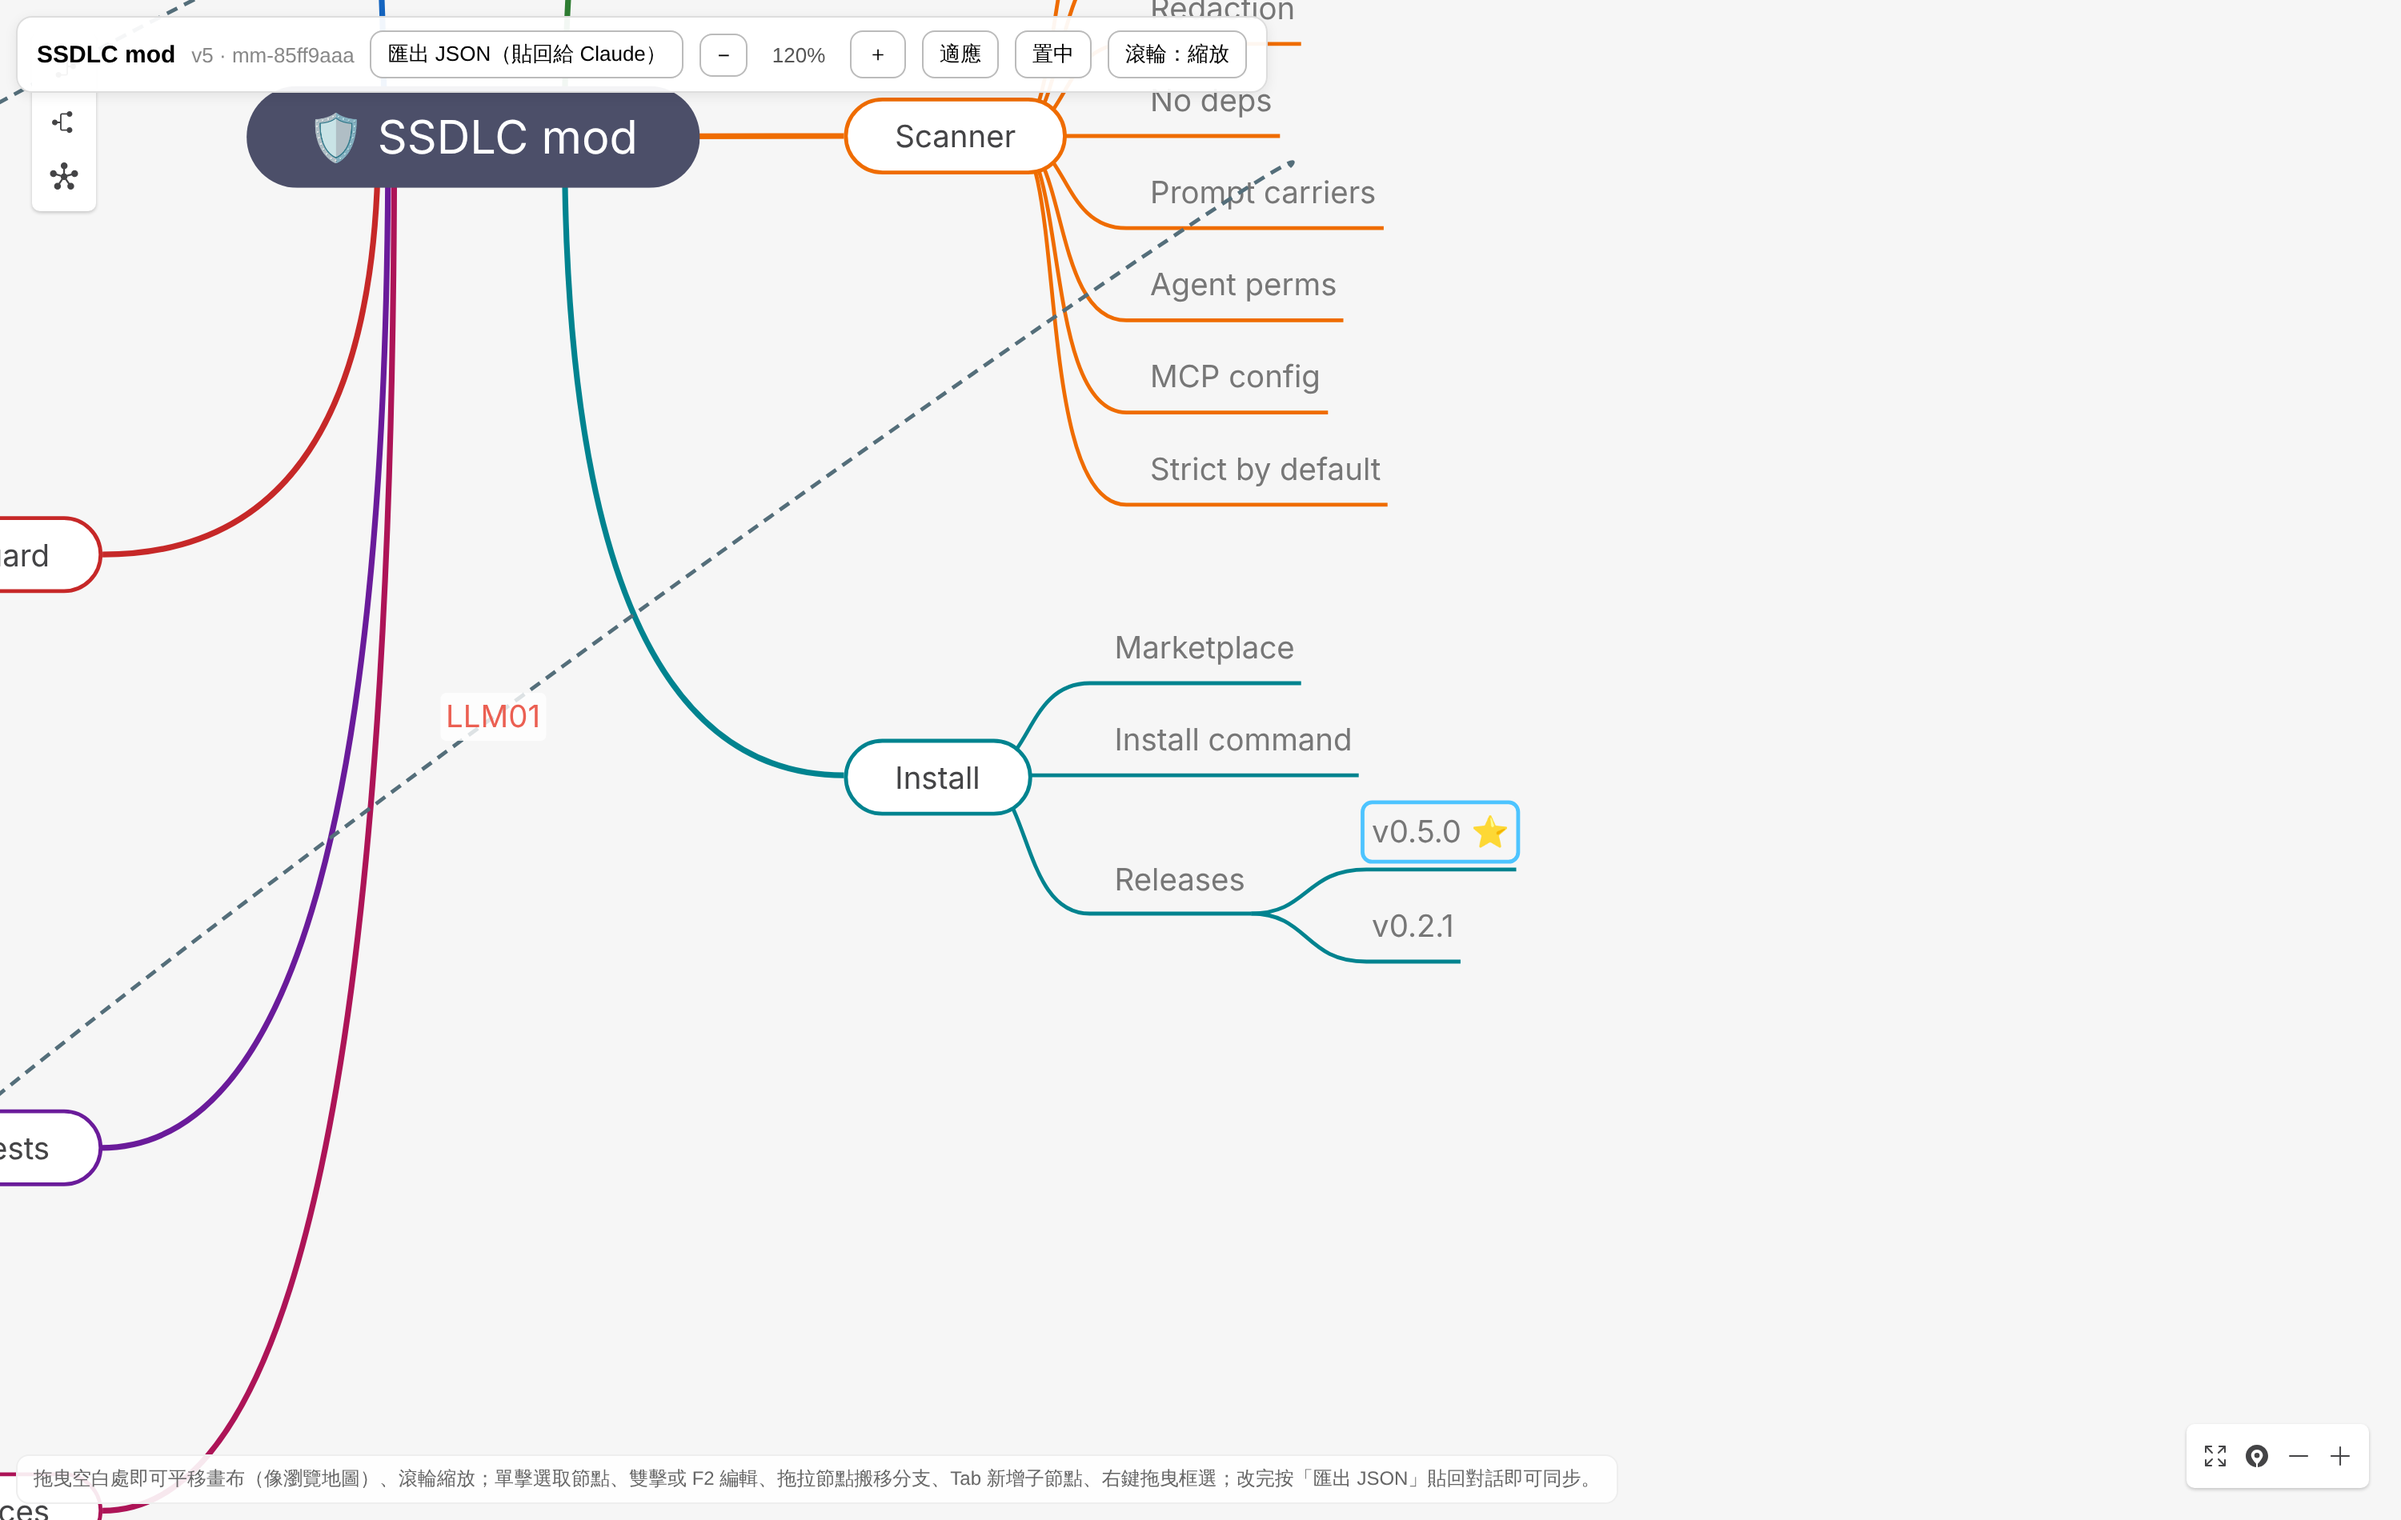
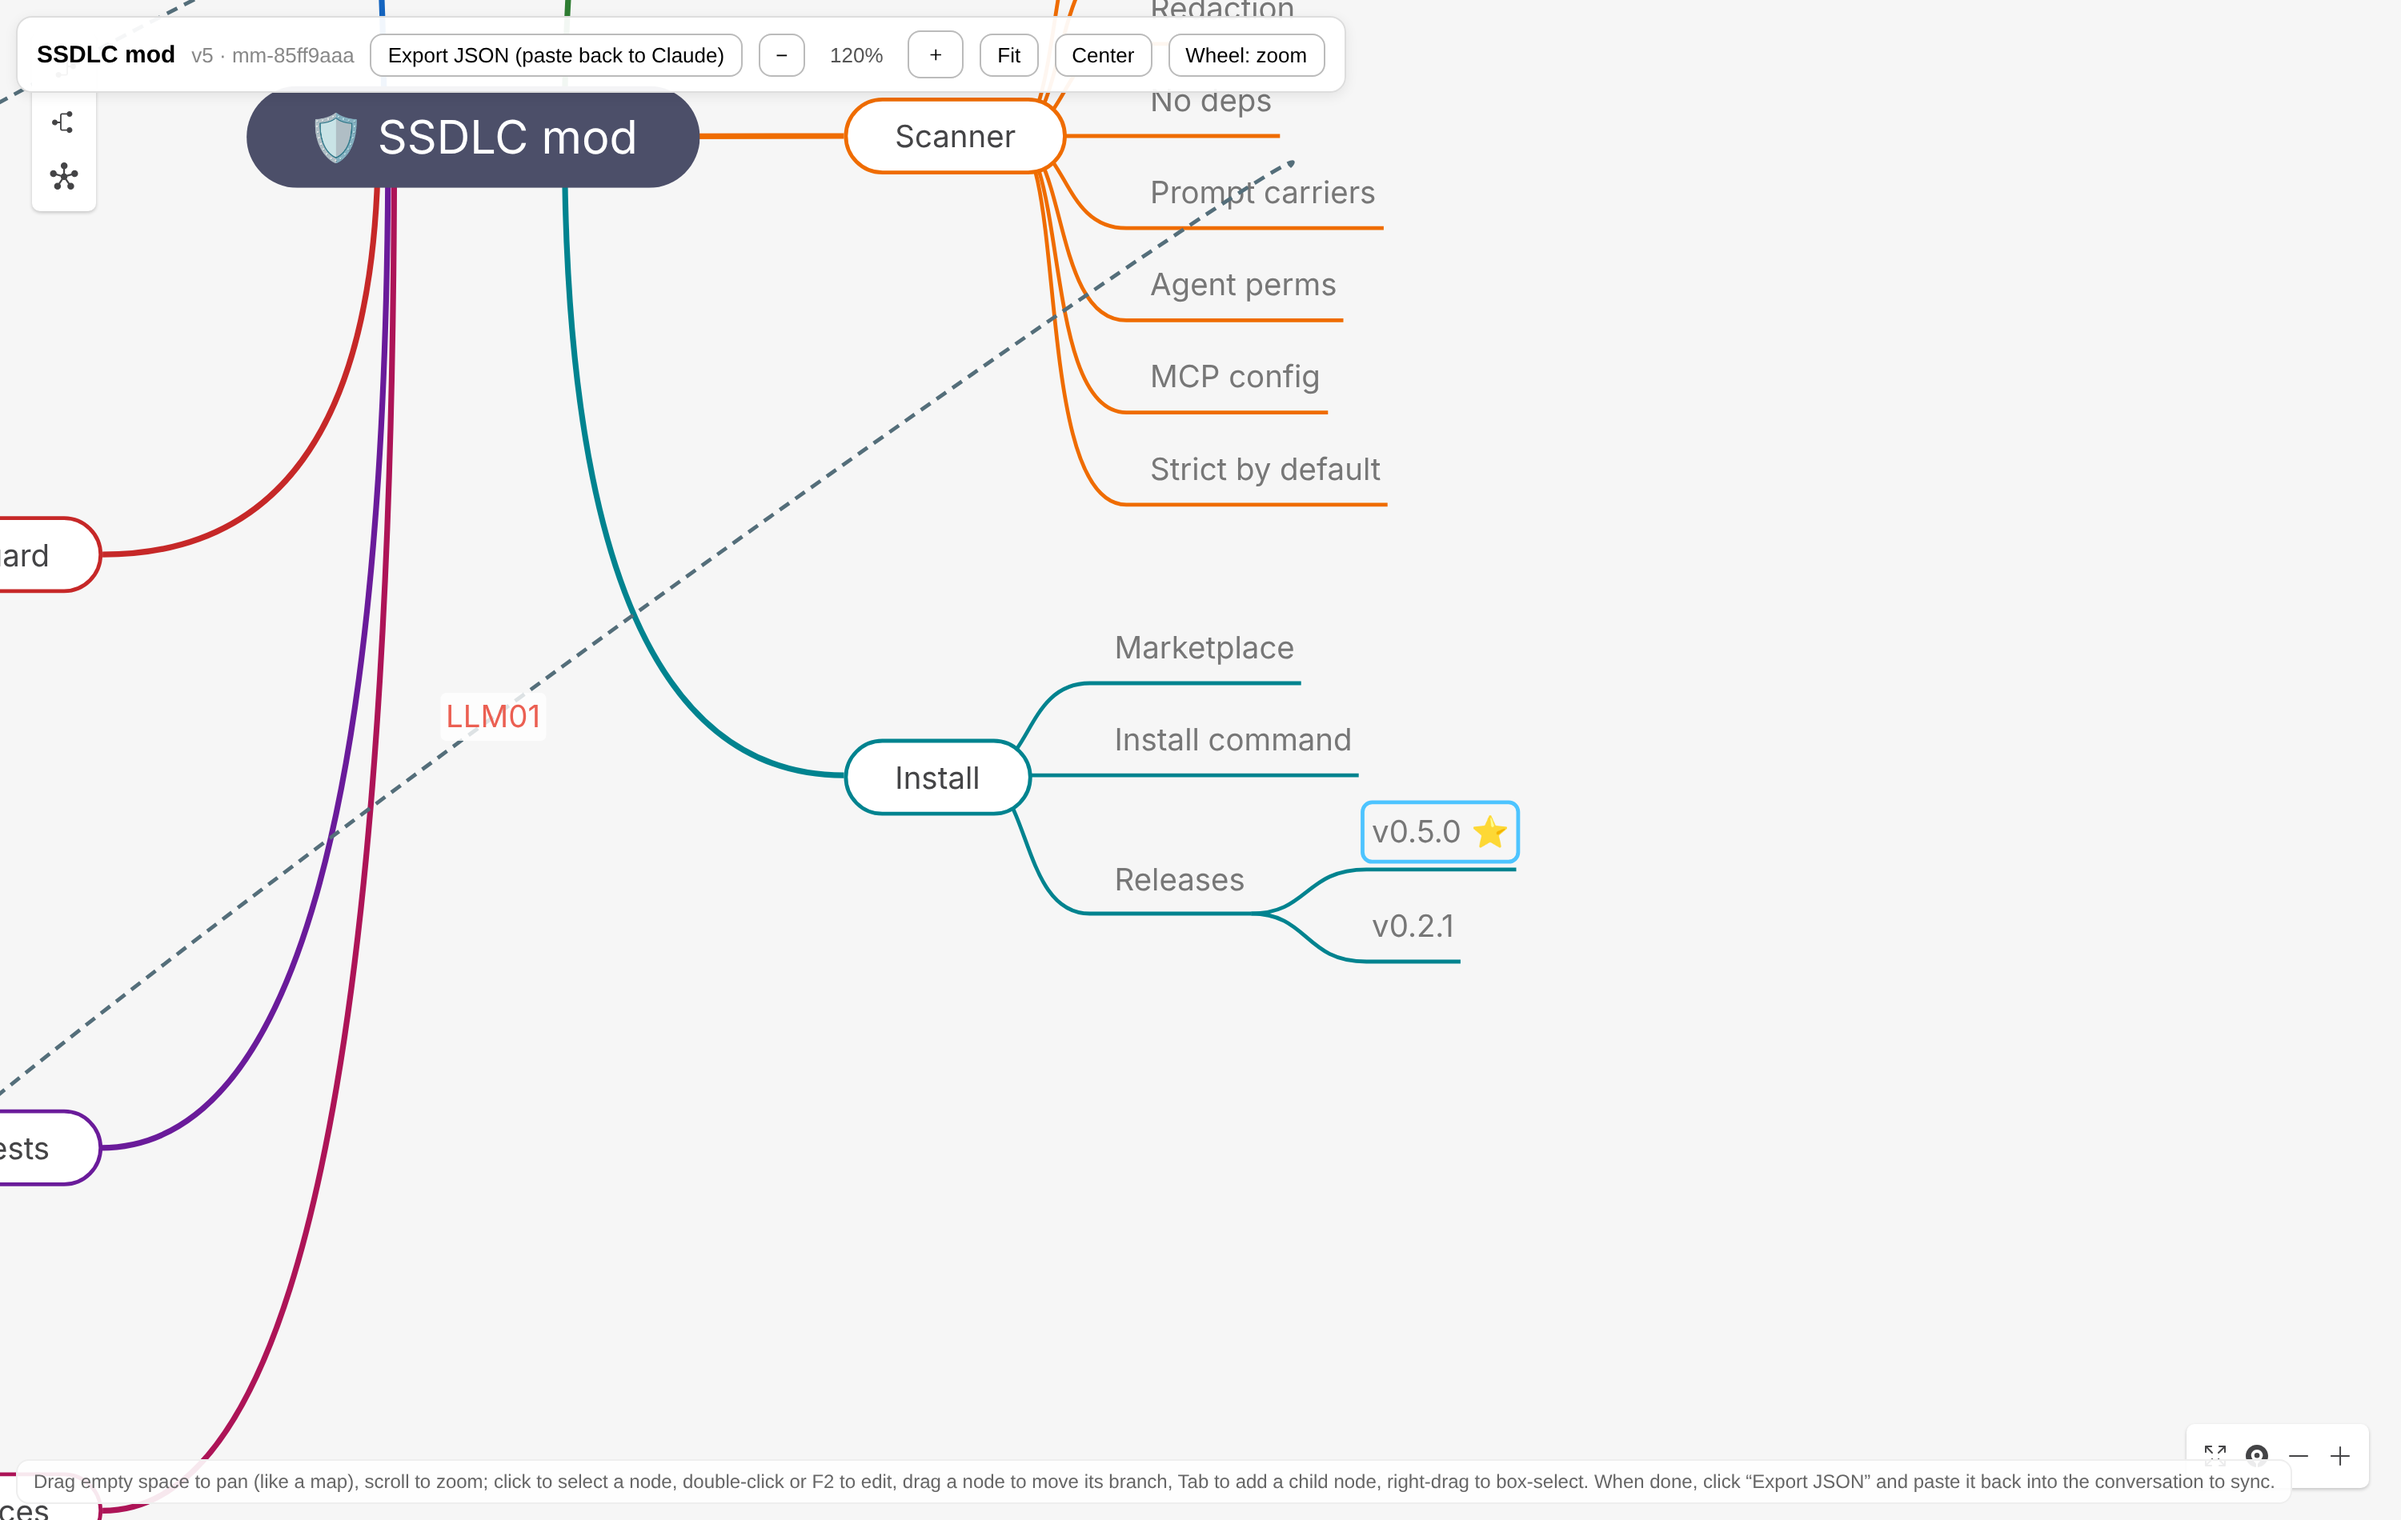
docs(mindmap): English interface for the English mind map
docs/mindmaps/localize_en.py translates the toolbar, hint and messages that
render.py writes in Chinese; the English map image and the guide's interactive
screenshot are re-captured, and the notes saying the toolbar is Chinese removed.

Claude-Session: https://claude.ai/code/session_01R1ma2KKoemvTgjSD3ke2JF

diff --git a/docs/ssdlc-mindmap.en.html b/docs/ssdlc-mindmap.en.html
@@ -1,9 +1,9 @@
 <!DOCTYPE html>
-<html lang="zh-Hant">
+<html lang="en">
 <head>
 <meta charset="UTF-8">
 <meta name="viewport" content="width=device-width, initial-scale=1.0">
-<title>SSDLC mod · 心智圖</title>
+<title>SSDLC mod · mind map</title>
 <style>
[1 lines of base64/hex data omitted]
 
@@ -32,13 +32,13 @@
 <body>
 <div id="topbar">
   <b>SSDLC mod</b><span class="ver">v5 · mm-85ff9aaa</span>
-  <button onclick="exportFlat()">匯出 JSON（貼回給 Claude）</button>
-  <button onclick="zoomStep(-1)" title="縮小">−</button><span id="zoompct" style="min-width:44px;text-align:center;color:#555;">100%</span><button onclick="zoomStep(1)" title="放大">＋</button>
-  <button onclick="mind.scaleFit()" title="整張圖縮放至可視範圍">適應</button>
-  <button onclick="mind.toCenter()">置中</button>
-  <button id="wheelmode" onclick="toggleWheelMode()" title="切換滾輪行為">滾輪：縮放</button>
+  <button onclick="exportFlat()">Export JSON (paste back to Claude)</button>
+  <button onclick="zoomStep(-1)" title="Zoom out">−</button><span id="zoompct" style="min-width:44px;text-align:center;color:#555;">100%</span><button onclick="zoomStep(1)" title="Zoom in">＋</button>
+  <button onclick="mind.scaleFit()" title="Zoom the whole map to fit the window">Fit</button>
+  <button onclick="mind.toCenter()">Center</button>
+  <button id="wheelmode" onclick="toggleWheelMode()" title="Switch the scroll-wheel behaviour">Wheel: zoom</button>
 </div>
-<div id="hint">拖曳空白處即可平移畫布（像瀏覽地圖）、滾輪縮放；單擊選取節點、雙擊或 F2 編輯、拖拉節點搬移分支、Tab 新增子節點、右鍵拖曳框選；改完按「匯出 JSON」貼回對話即可同步。</div>
+<div id="hint">Drag empty space to pan (like a map), scroll to zoom; click to select a node, double-click or F2 to edit, drag a node to move its branch, Tab to add a child node, right-drag to box-select. When done, click “Export JSON” and paste it back into the conversation to sync.</div>
 <div id="toast"></div>
 <div id="map"></div>
 <script>
@@ -120,7 +120,7 @@ function zoomStep(dir) {
 }
 function toggleWheelMode() {
   wheelMode = wheelMode === 'zoom' ? 'pan' : 'zoom';
-  document.getElementById('wheelmode').textContent = wheelMode === 'zoom' ? '滾輪：縮放' : '滾輪：平移';
+  document.getElementById('wheelmode').textContent = wheelMode === 'zoom' ? 'Wheel: zoom' : 'Wheel: pan';
 }
 setInterval(updateZoomPct, 600);  // 涵蓋內建快捷鍵/觸控縮放造成的變化
 
@@ -174,9 +174,9 @@ function exportFlat() {
   a.click();
   if (navigator.clipboard) {
     navigator.clipboard.writeText(text)
-      .then(() => toast('已下載並複製到剪貼簿——貼回對話，Claude 會用 mm.py adopt 同步'))
-      .catch(() => toast('已下載 JSON——請貼回對話給 Claude 同步'));
-  } else { toast('已下載 JSON——請貼回對話給 Claude 同步'); }
+      .then(() => toast('Downloaded and copied to the clipboard — paste it back into the conversation and Claude will sync it with mm.py adopt'))
+      .catch(() => toast('JSON downloaded — paste it back into the conversation for Claude to sync'));
+  } else { toast('JSON downloaded — paste it back into the conversation for Claude to sync'); }
 }
 </script>
 </body>

diff --git a/docs/mindmaps/localize_en.py b/docs/mindmaps/localize_en.py
@@ -1,0 +1,51 @@
+"""Translate the interface text of the English interactive mind map.
+
+The mindmap skill's render.py writes its toolbar, hint and messages in Chinese.
+After re-rendering docs/ssdlc-mindmap.en.html, run:
+
+    python3 -I docs/mindmaps/localize_en.py docs/ssdlc-mindmap.en.html
+
+Node text comes from ssdlc.en.mindmap.json and is not touched. Code comments
+are left as they are. The script fails if a string it expects is missing, and
+lists any Chinese text left outside comments.
+"""
+import re
+import sys
+
+PAIRS = [
+    ('<html lang="zh-Hant">', '<html lang="en">'),
+    ("SSDLC mod · 心智圖</title>", "SSDLC mod · mind map</title>"),
+    ("匯出 JSON（貼回給 Claude）", "Export JSON (paste back to Claude)"),
+    ('title="縮小"', 'title="Zoom out"'),
+    ('title="放大"', 'title="Zoom in"'),
+    ('title="整張圖縮放至可視範圍">適應<', 'title="Zoom the whole map to fit the window">Fit<'),
+    ("mind.toCenter()\">置中<", "mind.toCenter()\">Center<"),
+    ('title="切換滾輪行為">滾輪：縮放<', 'title="Switch the scroll-wheel behaviour">Wheel: zoom<'),
+    ("'滾輪：縮放' : '滾輪：平移'", "'Wheel: zoom' : 'Wheel: pan'"),
+    ("拖曳空白處即可平移畫布（像瀏覽地圖）、滾輪縮放；單擊選取節點、雙擊或 F2 編輯、拖拉節點搬移分支、Tab 新增子節點、右鍵拖曳框選；改完按「匯出 JSON」貼回對話即可同步。",
+     "Drag empty space to pan (like a map), scroll to zoom; click to select a node, double-click or F2 to edit, drag a node to move its branch, Tab to add a child node, right-drag to box-select. When done, click “Export JSON” and paste it back into the conversation to sync."),
+    ("已下載並複製到剪貼簿——貼回對話，Claude 會用 mm.py adopt 同步",
+     "Downloaded and copied to the clipboard — paste it back into the conversation and Claude will sync it with mm.py adopt"),
+    ("已下載 JSON——請貼回對話給 Claude 同步",
+     "JSON downloaded — paste it back into the conversation for Claude to sync"),
+]
+
+CJK = re.compile(r"[　-鿿＀-￯]")
+
+
+def main(path):
+    s = open(path, encoding="utf-8").read()
+    for zh, en in PAIRS:
+        if zh not in s:
+            sys.exit(f"not found (re-rendered with a different render.py?): {zh[:40]}")
+        s = s.replace(zh, en)
+    open(path, "w", encoding="utf-8").write(s)
+    left = [line.strip()[:80] for line in s.splitlines()
+            if CJK.search(re.sub(r"//.*", "", line))]
+    for line in left:
+        print("Chinese text left:", line)
+    print(f"localized {path}; {len(left)} line(s) with Chinese outside comments")
+
+
+if __name__ == "__main__":
+    main(sys.argv[1])

diff --git a/docs/manual/README.en.md b/docs/manual/README.en.md
@@ -50,7 +50,7 @@ How it differs from an ordinary linter:
 
 ![Mind map of how ssdlc works (v0.5.0)](../ssdlc-mindmap.en.png)
 
-**The interactive version** (open `docs/ssdlc-mindmap.en.html` in a browser; the toolbar and hint text are Chinese) lets you drag to pan, zoom with the scroll wheel or toolbar, click to select a node, double-click or press F2 to edit text, drag a node to move a branch, and press Tab to add a child node. When you are done, click "匯出 JSON（貼回給 Claude）" ("Export JSON (paste back to Claude)") and paste the result back into the conversation to sync it to the mind map's state file. The image below shows the view zoomed to 120% with the "Install → Releases → v0.5.0" node selected:
+**The interactive version** (open `docs/ssdlc-mindmap.en.html` in a browser) lets you drag to pan, zoom with the scroll wheel or toolbar, click to select a node, double-click or press F2 to edit text, drag a node to move a branch, and press Tab to add a child node. When you are done, click "Export JSON (paste back to Claude)" and paste the result back into the conversation to sync it to the mind map's state file. (The English page's interface text is translated by `docs/mindmaps/localize_en.py`; run it again after re-rendering.) The image below shows the view zoomed to 120% with the "Install → Releases → v0.5.0" node selected:
 
 ![Interactive mind map: zoomed in with a node selected](img/mindmap-interactive.en.png)
 

diff --git a/README.md b/README.md
@@ -43,7 +43,7 @@ Reported upstream: [google/elephant-goldfish-model#261](https://github.com/googl
 ## How it works
 ![ssdlc mind map](docs/ssdlc-mindmap.en.png)
 
-Interactive version: `docs/ssdlc-mindmap.en.html` (zoom, pan, edit; the toolbar text is Chinese); state file `docs/mindmaps/ssdlc.en.mindmap.json`. Chinese version: `docs/ssdlc-mindmap.png`.
+Interactive version: `docs/ssdlc-mindmap.en.html` (zoom, pan, edit); state file `docs/mindmaps/ssdlc.en.mindmap.json`. Chinese version: `docs/ssdlc-mindmap.png`.
 
 ## Skills
 | Command | Purpose |
